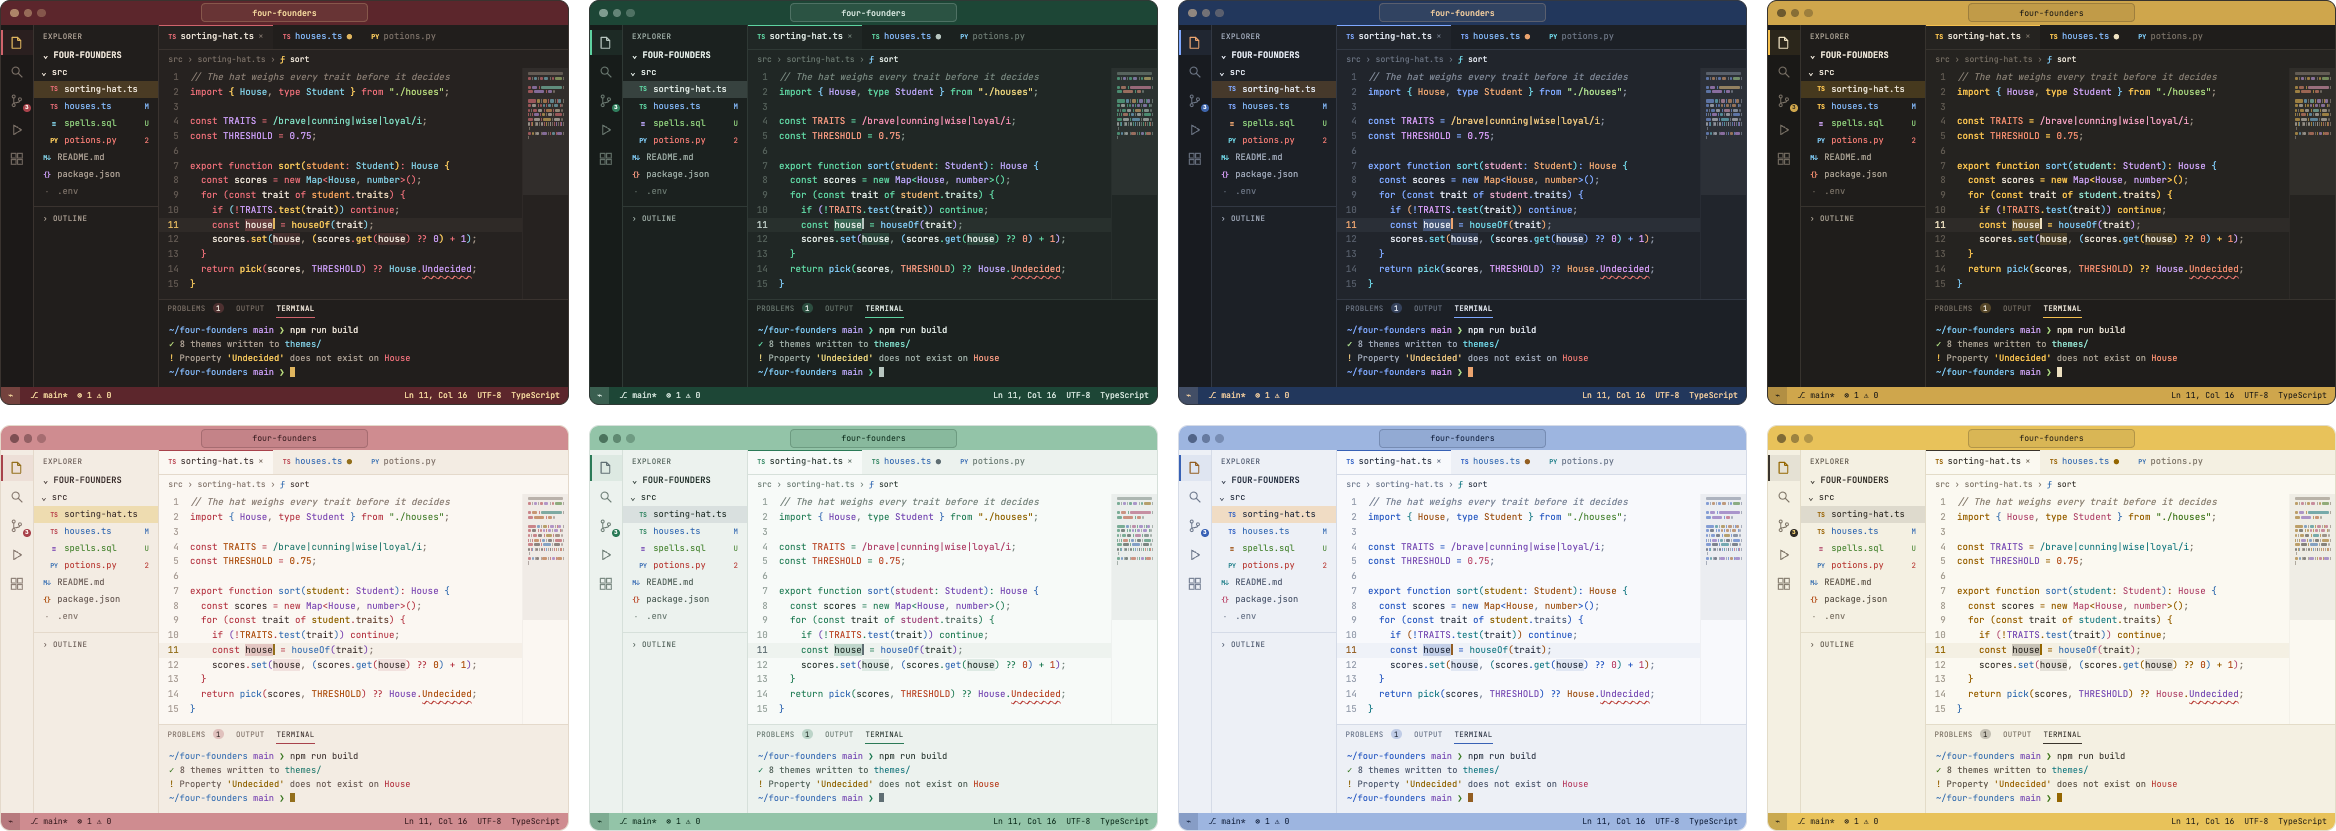
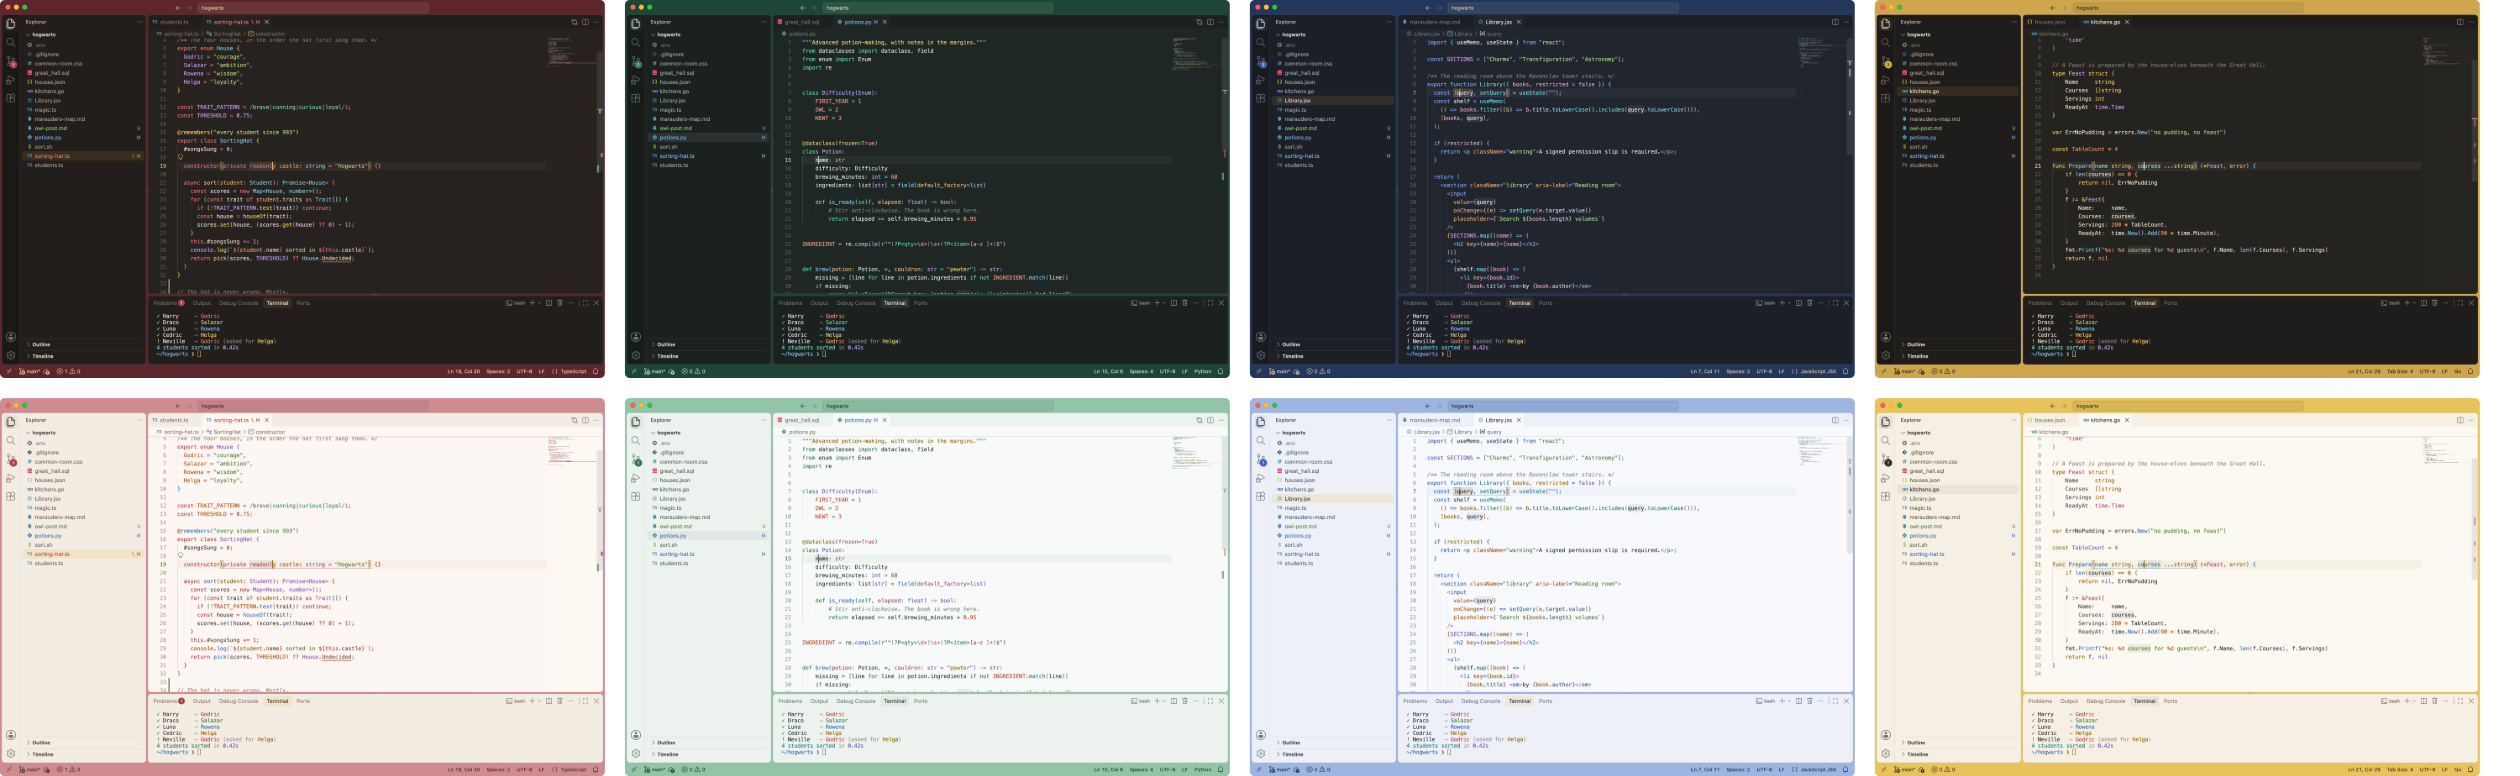
Real VS Code screenshots and a showcase project (1.0.1)
Every screenshot is now captured from VS Code running the published
themes on a small sample project in showcase/. Also replaces the
retired Marketplace badges.

Changed region(s): [[0.0, 0.0, 1.0, 1.0]]

diff --git a/showcase/Library.jsx b/showcase/Library.jsx
@@ -1,0 +1,36 @@
+import { useMemo, useState } from "react";
+
+const SECTIONS = ["Charms", "Transfiguration", "Astronomy"];
+
+/** The reading room above the Ravenclaw tower stairs. */
+export function Library({ books, restricted = false }) {
+  const [query, setQuery] = useState("");
+  const shelf = useMemo(
+    () => books.filter((b) => b.title.toLowerCase().includes(query.toLowerCase())),
+    [books, query],
+  );
+
+  if (restricted) {
+    return <p className="warning">A signed permission slip is required.</p>;
+  }
+
+  return (
+    <section className="library" aria-label="Reading room">
+      <input
+        value={query}
+        onChange={(e) => setQuery(e.target.value)}
+        placeholder={`Search ${books.length} volumes`}
+      />
+      {SECTIONS.map((name) => (
+        <h2 key={name}>{name}</h2>
+      ))}
+      <ul>
+        {shelf.map((book) => (
+          <li key={book.id}>
+            {book.title} <em>by {book.author}</em>
+          </li>
+        ))}
+      </ul>
+    </section>
+  );
+}

diff --git a/showcase/sorting-hat.ts b/showcase/sorting-hat.ts
@@ -1,0 +1,32 @@
+import { houseOf, pick, remembers } from "./magic";
+import type { Student, Trait } from "./students";
+
+/** The four houses, in the order the hat first sang them. */
+export enum House {
+  Godric = "courage",
+  Salazar = "ambition",
+  Rowena = "wisdom",
+  Helga = "loyalty",
+}
+
+const TRAIT_PATTERN = /brave|cunning|curious|loyal/i;
+const THRESHOLD = 0.75;
+
+@remembers("every student since 993")
+export class SortingHat {
+  #songsSung = 0;
+
+  constructor(private readonly castle: string = "Hogwarts") {}
+
+  async sort(student: Student): Promise<House> {
+    const scores = new Map<House, number>();
+    for (const trait of student.traits as Trait[]) {
+      if (!TRAIT_PATTERN.test(trait)) continue;
+      const house = houseOf(trait);
+      scores.set(house, (scores.get(house) ?? 0) + 1);
+    }
+    this.#songsSung += 1;
+    console.log(`${student.name} sorted in ${this.castle}`);
+    return pick(scores, THRESHOLD) ?? House.Undecided;
+  }
+}

diff --git a/showcase/common-room.css b/showcase/common-room.css
@@ -1,0 +1,17 @@
+:root {
+  --banner: #5c262c;
+  --fire-glow: rgba(224, 181, 94, 0.35);
+}
+
+.common-room > .fireplace:hover {
+  box-shadow: 0 0 48px 12px var(--fire-glow);
+  transform: scale(1.02);
+  transition: box-shadow 400ms ease-in-out;
+}
+
+@media (prefers-color-scheme: dark) {
+  .armchair::before {
+    content: "occupied";
+    font: italic 600 1rem/1.4 Georgia, serif;
+  }
+}

diff --git a/showcase/magic.ts b/showcase/magic.ts
@@ -1,0 +1,10 @@
+import type { House } from "./sorting-hat";
+import type { Trait } from "./students";
+
+export declare function houseOf(trait: Trait): House;
+
+export declare function pick(scores: Map<House, number>, threshold?: number): House | undefined;
+
+export function remembers(_memory: string) {
+  return <T>(target: T, _context: ClassDecoratorContext): T => target;
+}

diff --git a/showcase/students.ts b/showcase/students.ts
@@ -1,0 +1,8 @@
+export type Trait = "brave" | "cunning" | "curious" | "loyal" | (string & {});
+
+export interface Student {
+  name: string;
+  year: 1 | 2 | 3 | 4 | 5 | 6 | 7;
+  traits: Trait[];
+  wand?: { wood: string; core: string; inches: number };
+}

diff --git a/showcase/potions.py b/showcase/potions.py
@@ -1,0 +1,36 @@
+"""Advanced potion-making, with notes in the margins."""
+from dataclasses import dataclass, field
+from enum import Enum
+import re
+
+
+class Difficulty(Enum):
+    FIRST_YEAR = 1
+    OWL = 2
+    NEWT = 3
+
+
+@dataclass(frozen=True)
+class Potion:
+    name: str
+    difficulty: Difficulty
+    brewing_minutes: int = 60
+    ingredients: list[str] = field(default_factory=list)
+
+    def is_ready(self, elapsed: float) -> bool:
+        # Stir anti-clockwise. The book is wrong here.
+        return elapsed >= self.brewing_minutes * 0.95
+
+
+INGREDIENT = re.compile(r"^(?P<qty>\d+)\s+(?P<item>[a-z ]+)$")
+
+
+def brew(potion: Potion, *, cauldron: str = "pewter") -> str:
+    missing = [line for line in potion.ingredients if not INGREDIENT.match(line)]
+    if missing:
+        raise ValueError(f"Cannot brew {potion.name!r}: {len(missing)} bad lines")
+    return f"{potion.name} is simmering in a {cauldron} cauldron"
+
+
+felix = Potion("Felix Felicis", Difficulty.NEWT, 360, ["6 ashwinder eggs", "1 squill bulb"])
+print(brew(felix, cauldron="gold"))

diff --git a/showcase/kitchens.go b/showcase/kitchens.go
@@ -1,0 +1,33 @@
+package kitchens
+
+import (
+	"errors"
+	"fmt"
+	"time"
+)
+
+// A Feast is prepared by the house-elves beneath the Great Hall.
+type Feast struct {
+	Name     string
+	Courses  []string
+	Servings int
+	ReadyAt  time.Time
+}
+
+var ErrNoPudding = errors.New("no pudding, no feast")
+
+const TableCount = 4
+
+func Prepare(name string, courses ...string) (*Feast, error) {
+	if len(courses) == 0 {
+		return nil, ErrNoPudding
+	}
+	f := &Feast{
+		Name:     name,
+		Courses:  courses,
+		Servings: 280 * TableCount,
+		ReadyAt:  time.Now().Add(90 * time.Minute),
+	}
+	fmt.Printf("%s: %d courses for %d guests\n", f.Name, len(f.Courses), f.Servings)
+	return f, nil
+}

diff --git a/README.md b/README.md
@@ -8,8 +8,8 @@
 </p>
 
 <p align="center">
-  <a href="https://marketplace.visualstudio.com/items?itemName=prudhvicharan.four-founders"><img src="https://img.shields.io/visual-studio-marketplace/v/prudhvicharan.four-founders?style=flat-square&label=marketplace&color=C9A96E" alt="Marketplace version"></a>
-  <a href="https://marketplace.visualstudio.com/items?itemName=prudhvicharan.four-founders"><img src="https://img.shields.io/visual-studio-marketplace/i/prudhvicharan.four-founders?style=flat-square&color=2A6B50" alt="Installs"></a>
+  <a href="https://marketplace.visualstudio.com/items?itemName=prudhvicharan.four-founders"><img src="https://img.shields.io/badge/VS%20Code-Marketplace-C9A96E?style=flat-square" alt="VS Code Marketplace"></a>
+  <img src="https://img.shields.io/badge/themes-8-2A6B50?style=flat-square" alt="8 themes">
   <a href="https://github.com/Prudhvicharan/four-founders/blob/main/LICENSE"><img src="https://img.shields.io/badge/license-MIT-34589A?style=flat-square" alt="MIT license"></a>
 </p>
 
@@ -126,7 +126,7 @@ These are the rules I held myself to while designing these themes.
 - **No pitch black, no paper white.** Dark themes sit on soft charcoal. Light themes sit on ivory, mint or cream.
 - **Colors you can tell apart.** Keywords, functions, strings, types and numbers each get their own clearly different color, and each house has its own mix.
 - **Readable, and checked.** Every code color passes WCAG AA contrast (4.5:1) on the editor background and on the current-line highlight. The build fails if one doesn't.
-- **Nothing fake.** Every color in these screenshots comes from the actual theme files. What you see is what you install.
+- **Nothing fake.** Every screenshot here is real VS Code running the published theme, opened on a small Hogwarts-flavored project that lives in [`showcase/`](showcase). What you see is what you install.
 
 Everything is themed: syntax and semantic highlighting, terminal colors, Git decorations and diffs, IntelliSense, hovers, peek views, the command palette, the debugger, test results, the minimap and bracket pairs.
 
@@ -153,6 +153,7 @@ Press **F5** in VS Code to open a window with the themes loaded.
 | `src/palettes.js` | The colors for every house. Start here. |
 | `src/theme.js` | Maps a palette onto every surface VS Code exposes. |
 | `scripts/build.js` | Writes `themes/*.json`, syncs `package.json` and audits contrast. |
+| `showcase/` | The sample project used for the screenshots. Open it to test every language at once. |
 
 Found a token that looks off? Run **Developer: Inspect Editor Tokens and Scopes** on it and [open an issue](https://github.com/Prudhvicharan/four-founders/issues) with a screenshot. Pull requests are welcome.
 

diff --git a/showcase/marauders-map.md b/showcase/marauders-map.md
@@ -1,0 +1,12 @@
+# The Map
+
+> I solemnly swear that this is only a theme preview.
+
+## Secret passages
+
+1. **One-eyed witch**: third floor, leads to the sweet shop
+2. *Whomping willow*: mind the branches
+3. `Room of Requirement`: [appears when needed](https://example.com)
+
+- [x] Find the kitchens
+- [ ] Return the map

diff --git a/CHANGELOG.md b/CHANGELOG.md
@@ -1,5 +1,10 @@
 # Changelog
 
+## 1.0.1
+
+- The README screenshots are now real VS Code captures, taken on a new sample project in `showcase/`.
+- The retired Marketplace badges are replaced.
+
 ## 1.0.0
 
 The first release.
